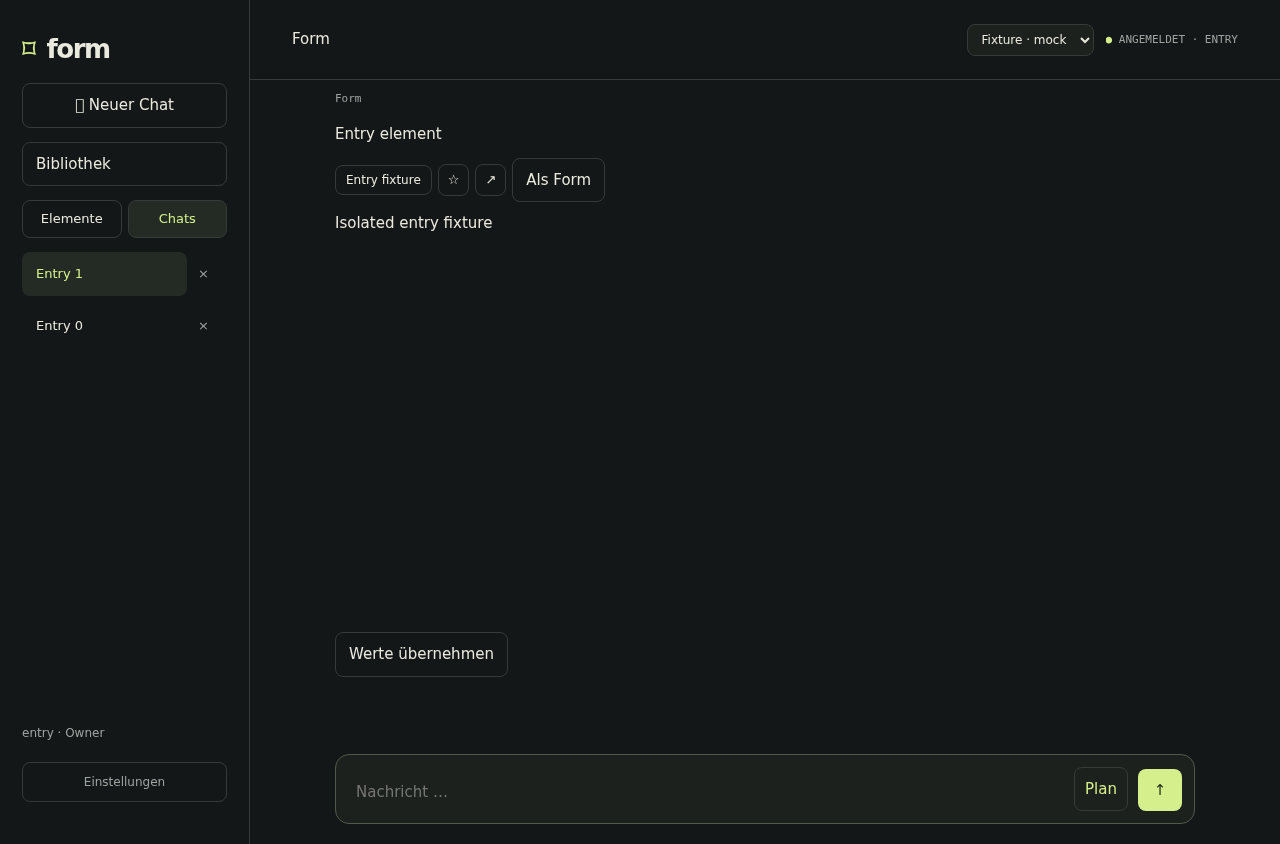
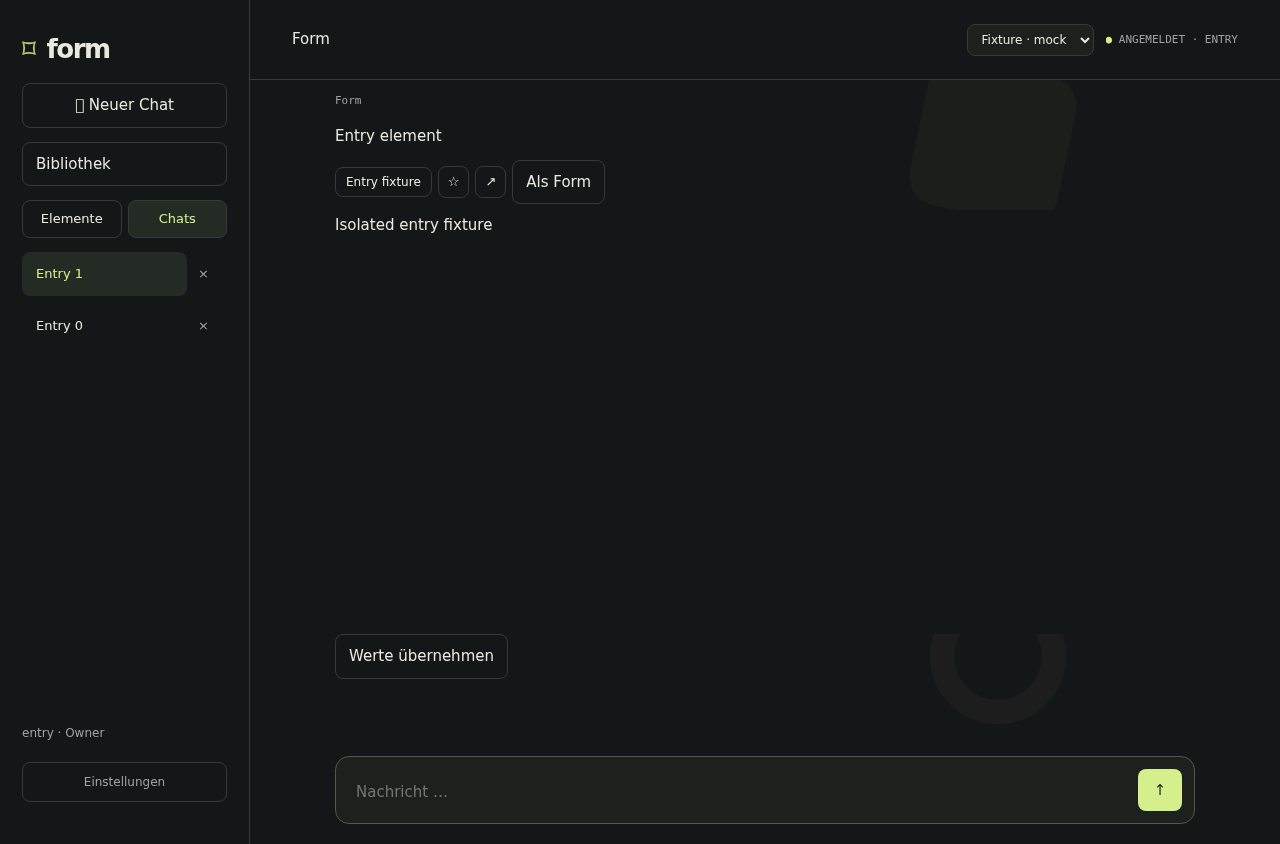
Fix session entry settling for deferred Element mounts

diff --git a/src/session-entry.js b/src/session-entry.js
@@ -1,14 +1,27 @@
 // Entry is distinct from submit/background updates: start at the end before paint.
 // Briefly accommodate async Element sizing, but never trap someone reading history.
 export function sessionEntry(feed){
-  let stopped=false,timer,observer,last=0;
+  let stopped=false,timer,observer,mutations=null,primed=false;const ends=new Set();
   const events=['pointerdown','touchstart','wheel','keydown'];
-  const stop=()=>{if(stopped)return;stopped=true;clearTimeout(timer);observer?.disconnect();for(const e of events)document.removeEventListener(e,stop,true);feed.removeEventListener('scroll',onScroll);};
-  const onScroll=()=>{if(Math.abs(feed.scrollTop-last)>2)stop();};
-  const bottom=()=>{if(stopped)return;feed.scrollTo({top:feed.scrollHeight,behavior:'instant'});last=feed.scrollTop;};
+  const stop=()=>{if(stopped)return;stopped=true;clearTimeout(timer);observer?.disconnect();mutations?.disconnect();feed.removeEventListener('scroll',onScroll);for(const e of events)document.removeEventListener(e,stop,true);};
+  // scrollTo() applies asynchronously in Chrome; direct assignment keeps pins
+  // immediate. Every pin records the layout end it targeted so a later scroll
+  // event can tell a content clamp (lands exactly on a known end) from a reader.
+  const bottom=()=>{if(stopped)return;const end=feed.scrollHeight-feed.clientHeight;if(!primed){primed=true;feed.scrollTop=feed.scrollHeight;ends.add(end);return;}const pos=feed.scrollTop;if(end-pos>2&&!knownEnd(pos)){stop();return;}feed.scrollTop=feed.scrollHeight;ends.add(end);};
+  const knownEnd=pos=>{for(const e of ends)if(Math.abs(pos-e)<=2)return true;return false;};
+  const onScroll=()=>{if(stopped)return;const gap=feed.scrollHeight-feed.clientHeight-feed.scrollTop;
+    // At the end (or a clamp of earlier content that has since grown): keep following.
+    if(gap<=2||knownEnd(feed.scrollTop)){bottom();return;}
+    stop();};
   bottom();
   observer=new ResizeObserver(bottom);for(const frame of feed.querySelectorAll('iframe'))observer.observe(frame);
+  // Entry iframes mount after us; ResizeObserver only sees nodes it was handed.
+  // Any feed mutation re-pins (shrinks clamp the browser to the new end) and
+  // adopt newly inserted iframes into the observer.
+  mutations=new MutationObserver(records=>{let added=false;for(const r of records){for(const n of r.addedNodes){if(n.nodeType!==1)continue;const frames=n.tagName==='IFRAME'?[n]:n.querySelectorAll?.('iframe')||[];for(const f of frames){observer.observe(f);added=true;}}}bottom();});
+  mutations.observe(feed,{childList:true,subtree:true});
+  feed.addEventListener('scroll',onScroll,{passive:true});
   for(const e of events)document.addEventListener(e,stop,{capture:true,passive:true});
-  feed.addEventListener('scroll',onScroll,{passive:true});timer=setTimeout(stop,2000);
+  timer=setTimeout(stop,2000);
   return stop;
 }

diff --git a/docs/SESSION-ENTRY.md b/docs/SESSION-ENTRY.md
@@ -18,3 +18,16 @@ The first expanded fixture reused one conversation across both viewports; after 
 This is acceptance-only work with disposable accounts/store and a held local mock. No production artifact, account or provider settings are changed; no real-provider spend, restart or new animation claim. Full npm-test and legacy7b–7d/8–9/11/13 reconciliation remain open. Reports #a3daf406 and #e89344ad remain unresolved for their recorded reasons.
 
 Verified: all eight combinations pass against source and installed /opt/form application modules (16 cases; held and completed anchors checked in each). Existing entry/sizing checks pass in both runs. Syntax/diff checks pass. Only test/docs are synchronized; no runtime release or restart. Dated scroll-anchor-source/deployed logs and SHA256 evidence are retained. Full-suite certification and unresolved reports are unchanged.
+
+
+## Late-mounted Element entry settling — 2026-11-10 (#6a876098, #4d6c3998)
+
+The installed frontend reproduces a 354px bottom gap after login when the Element mounts after session entry. The earlier ResizeObserver watched only iframes present at entry; deferred mounts were missed, and async scroll events could terminate settling prematurely. The entry helper now observes newly mounted iframes during the same bounded two-second window and remembers previously targeted layout ends to distinguish a content clamp from manual reading. Direct scrollTop assignment makes the initial placement synchronous. Pointer/touch/wheel/key input, manual scrolling away, later rendering and the existing deadline still terminate settling. This is not smooth expansion animation or arbitrary-history layout stability; both broader loading reports remain open/working.
+
+Source desktop/mobile login, reload, sidebar, late sizing, manual cancellation/deadline and eight held-provider Enter/button middle/bottom anchor cases pass. The same strengthened test fails against installed code before release; no tolerance was widened. Screenshots inspected. A scoped build excludes the unrelated renderer diagnostic WIP, and its HEAD-helper baseline is byte-identical to the installed bundle after dependency-path comment normalization. Production src/app.js lacked the already shipped shape-setting addition: the served bundle contains it; source synchronization must preserve it. No account, provider, schema, user artifact or stored data changes. Full suite remains pending; targeted core and installed release verification are recorded separately.
+
+The apparent stuck cancellation during the wider Blueprint gate was also investigated: after the automatic-scroll locator click the API job remained building, not cancelled. Settling the native scroll before one click and requiring the cancel HTTP response clears the site while preserving prior Element placement, state, pin and DB. This is a browser-input fixture correction, not a product cancellation fix.
+
+Verified rollout: scoped source and installed desktop/mobile entry suites pass, including all eight held/completed scroll-anchor cases each. All 24 browser-core checks and timeline units pass. Blueprint native-input acceptance passes against source and installed code; refinement browser passes both widths. The plan fixture tolerates a click timeout only if the requested revision is already persisted; it never resubmits. No full npm-test claim.
+
+Frontend deployed without restart after two idle checks. Loopback and both public URLs serve exact app SHA256 86e3b9721b3adfa509e499b2dd74476d000a59950cce90fa1ef2151ac0dd3599 with unchanged bridge/CSP, Worker, verifier, HTML and backend; health, anonymous denial and closed registration verified. Code-only rollback: /opt/form/.rollback/20261110-entry-settling; restore the archived files at idle, never restore user data. Runtime renderer diagnostic and SQLite busy-timeout WIP remain excluded. Interrupted tool delivery was reconciled through release marker, installed test log, matching hashes and absence of surviving fixtures before continuing.
